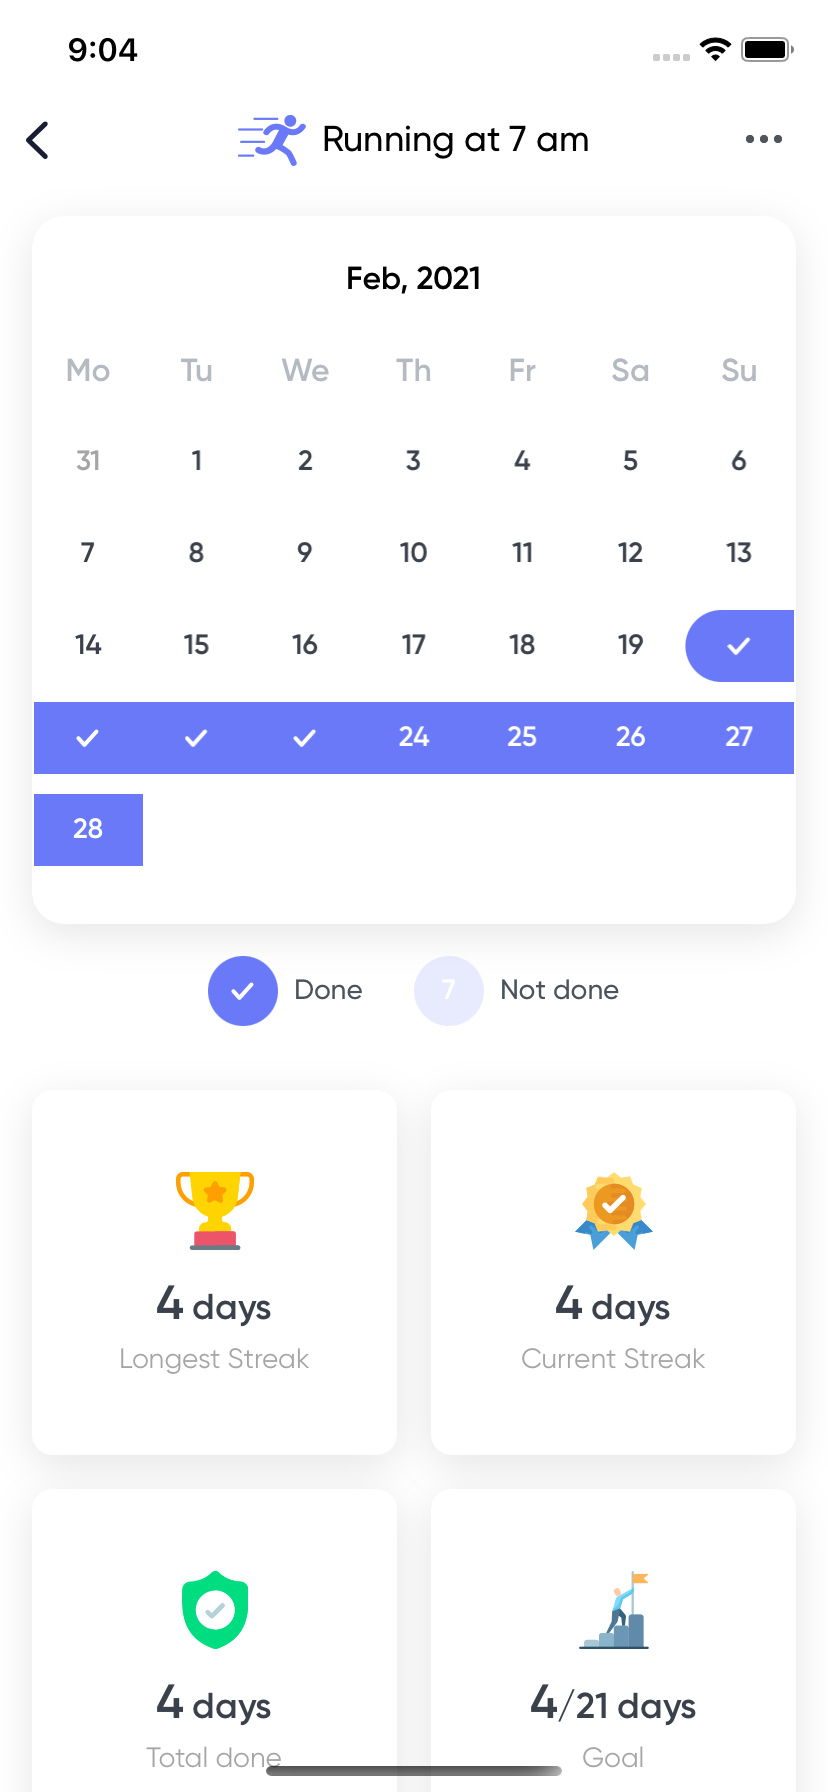
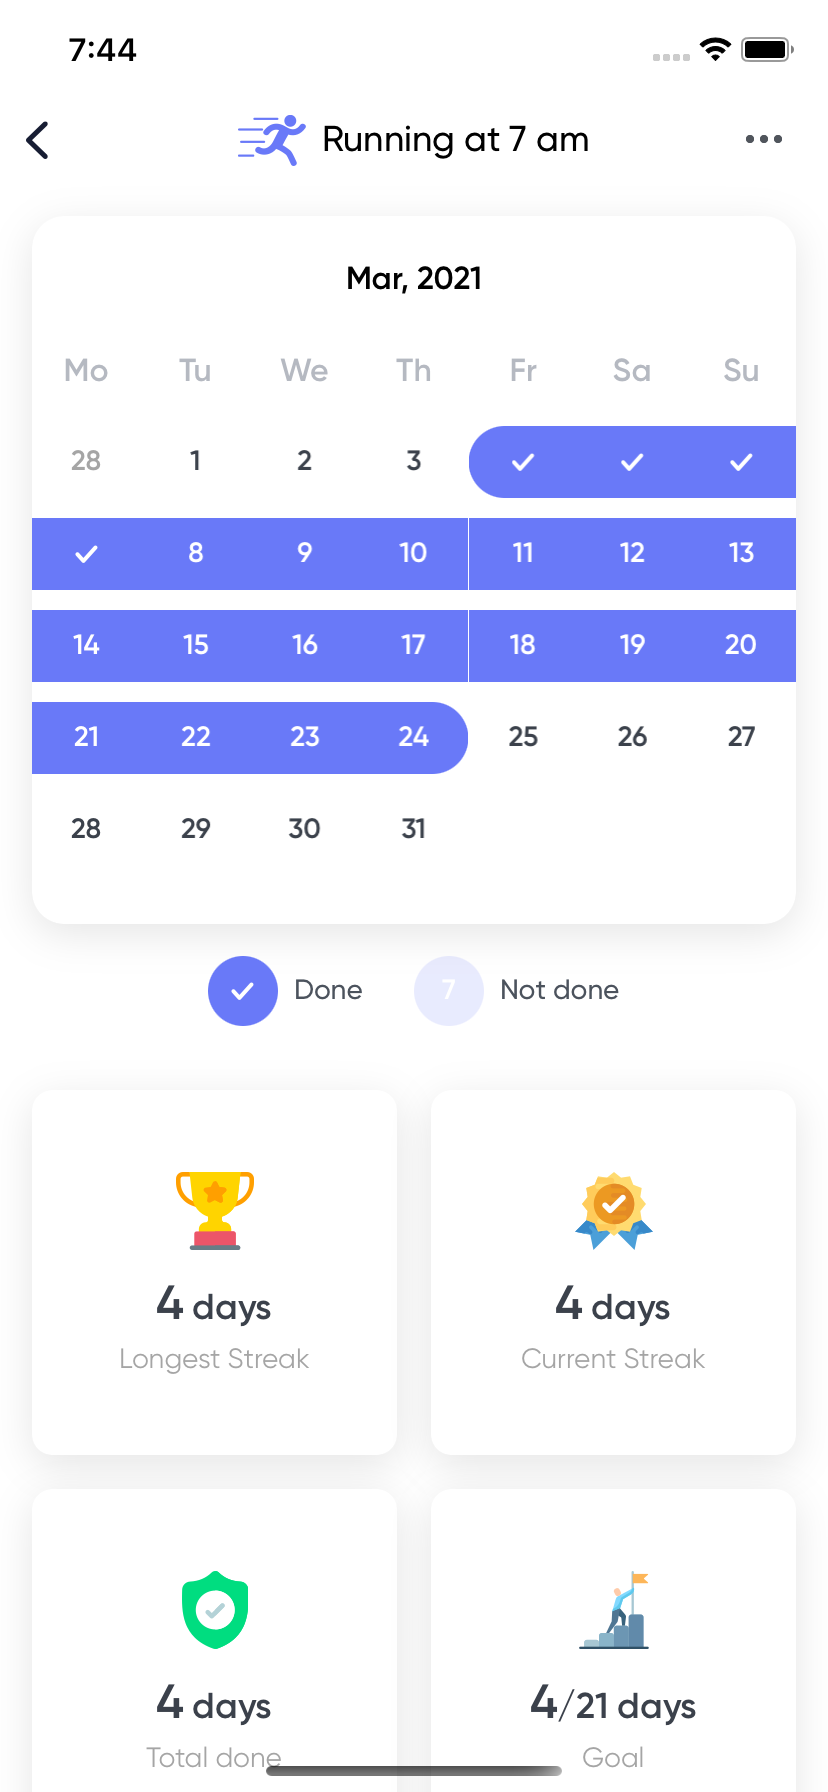
feat: configure calendar UI

diff --git a/iOS/HabitTracker/Modules/Habit/Modules/Calendar/CalendarViewController.swift b/iOS/HabitTracker/Modules/Habit/Modules/Calendar/CalendarViewController.swift
@@ -23,9 +23,17 @@ final class CalendarViewController: UIViewController, LoaderViewDisplayable {
     @IBOutlet private var roundViews: [UIView]!
     @IBOutlet private var backgroundedView: [UIView]!
     
+    @IBOutlet private var calendarWidthConstraint: NSLayoutConstraint!
+    
     // MARK: - Superview
     override func viewDidLoad() {
         super.viewDidLoad()
+        
+        setupViews()
+    }
+    
+    private func setupViews() {
+        setupCalendarView()
         
         backgroundedView.forEach {
             $0.backgroundColor = .clear
@@ -33,15 +41,28 @@ final class CalendarViewController: UIViewController, LoaderViewDisplayable {
         containerView.layer.backgroundColor = UIColor.clear.cgColor
         containerView.applyDropShadow()
         
+        roundViews.forEach { $0.round() }
+        bufferColorSetup?(viewModel.themeColor)
+        startLoading()
+    }
+    
+    private func setupCalendarView() {
         calendarView.scrollDirection = .horizontal
         calendarView.scrollingMode = .stopAtEachCalendarFrame
         calendarView.rangeSelectionMode = .continuous
         calendarView.allowsMultipleSelection = true
         calendarView.showsHorizontalScrollIndicator = false
+        calendarView.minimumInteritemSpacing = 0
         
-        roundViews.forEach { $0.round() }
-        bufferColorSetup?(viewModel.themeColor)
-        startLoading()
+        configureCalndarCellsWidth()
+    }
+    
+    private func configureCalndarCellsWidth() {
+        let cellsNumberIfRow: CGFloat = 7
+        let calendarWidth = containerView.frame.width - containerView.frame.width.truncatingRemainder(dividingBy: cellsNumberIfRow)
+        
+        calendarWidthConstraint.constant = calendarWidth
+        calendarView.cellSize = calendarWidth / cellsNumberIfRow
     }
     
     // MARK: - Internal Methods

diff --git a/iOS/HabitTracker/Modules/Habit/Modules/Calendar/DateCell.swift b/iOS/HabitTracker/Modules/Habit/Modules/Calendar/DateCell.swift
@@ -35,6 +35,9 @@ class DateCell: JTACDayCell {
     @IBOutlet private var todayIndicatorView: UIView!
     @IBOutlet private var doneImageView: UIImageView!
     
+    @IBOutlet private var selectedViewLeftConstraint: NSLayoutConstraint!
+    @IBOutlet private var selectedViewRightConstraint: NSLayoutConstraint!
+    
     override func awakeFromNib() {
         super.awakeFromNib()
         clipsToBounds = false
@@ -66,14 +69,23 @@ class DateCell: JTACDayCell {
         selectedView.isHidden = position == .full
         selectedSingleView.isHidden = position != .full
         
+        selectedViewLeftConstraint.constant = -0.5
+        selectedViewRightConstraint.constant = -0.5
+        
         switch position {
         case .left:
+            selectedViewLeftConstraint.constant = 0
+            selectedViewRightConstraint.constant = -0.5
+            
             selectedView.layer.cornerRadius = radius
             selectedView.layer.maskedCorners = [.layerMinXMaxYCorner, .layerMinXMinYCorner]
         case .middle:
             selectedView.layer.cornerRadius = .zero
             selectedView.layer.maskedCorners = []
         case .right:
+            selectedViewLeftConstraint.constant = -0.5
+            selectedViewRightConstraint.constant = 0
+            
             selectedView.layer.cornerRadius = radius
             selectedView.layer.maskedCorners = [.layerMaxXMaxYCorner, .layerMaxXMinYCorner]
         case .full:

diff --git a/iOS/HabitTracker/Modules/Habit/HabitViewController.swift b/iOS/HabitTracker/Modules/Habit/HabitViewController.swift
@@ -98,10 +98,6 @@ final class HabitViewController: UIViewController, LoaderViewDisplayable, ErrorD
     
     // MARK: - Private Methods
     private func setupCheckpoints(for habit: Habit) {
-        let model = CalendarViewModel(checkpoints: FastlaneData.TestData.Checkpoints.checkpoints, color: habit.color)
-        
-        calendarViewController.setup(model: model)
-        return 
         guard Target.current != .fastlaneUiTest else {
             let model = CalendarViewModel(checkpoints: FastlaneData.TestData.Checkpoints.checkpoints, color: habit.color)
             
